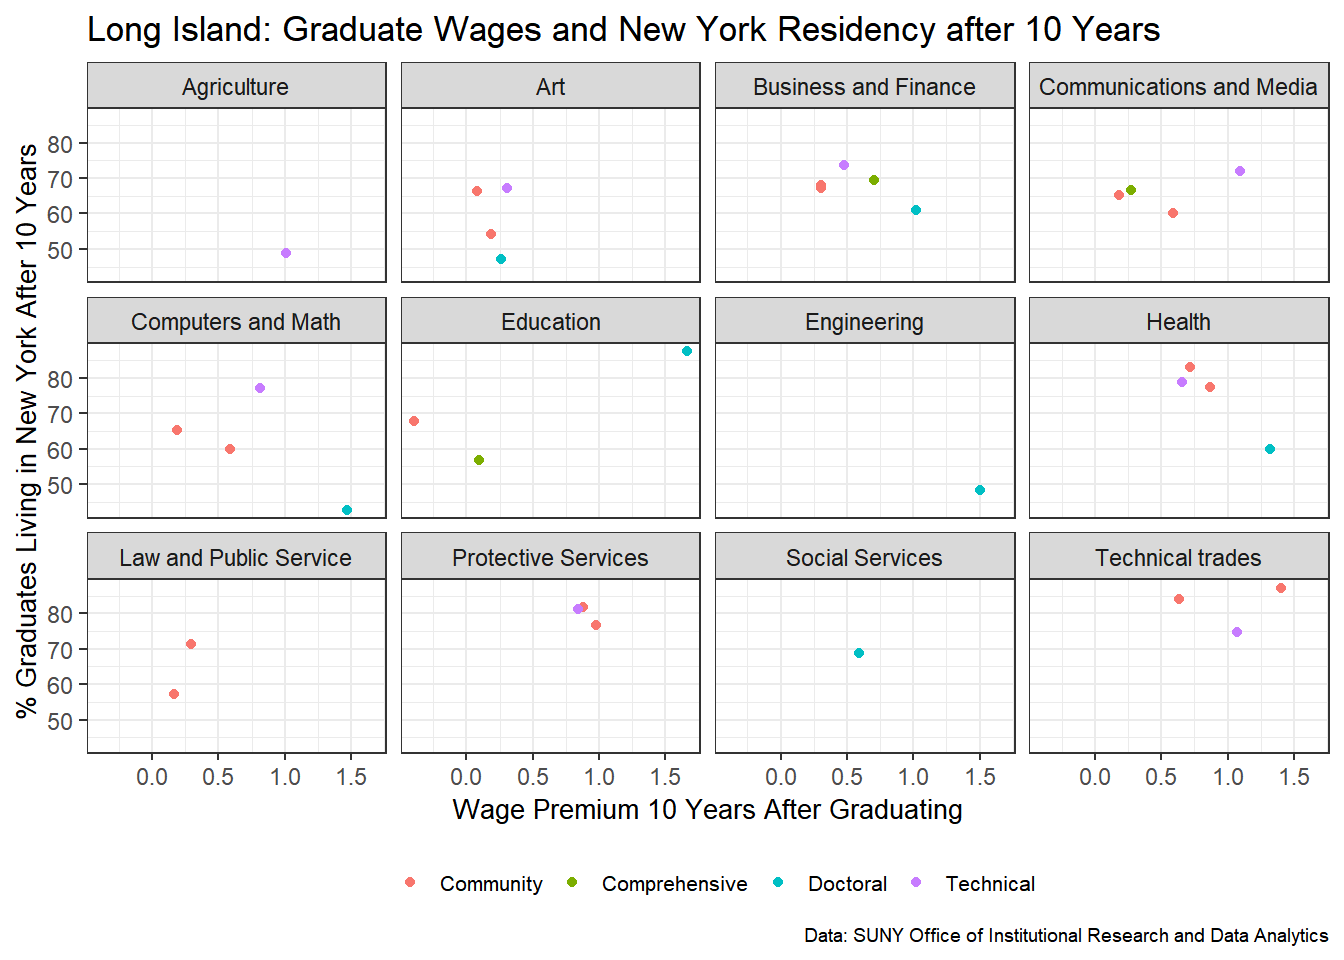
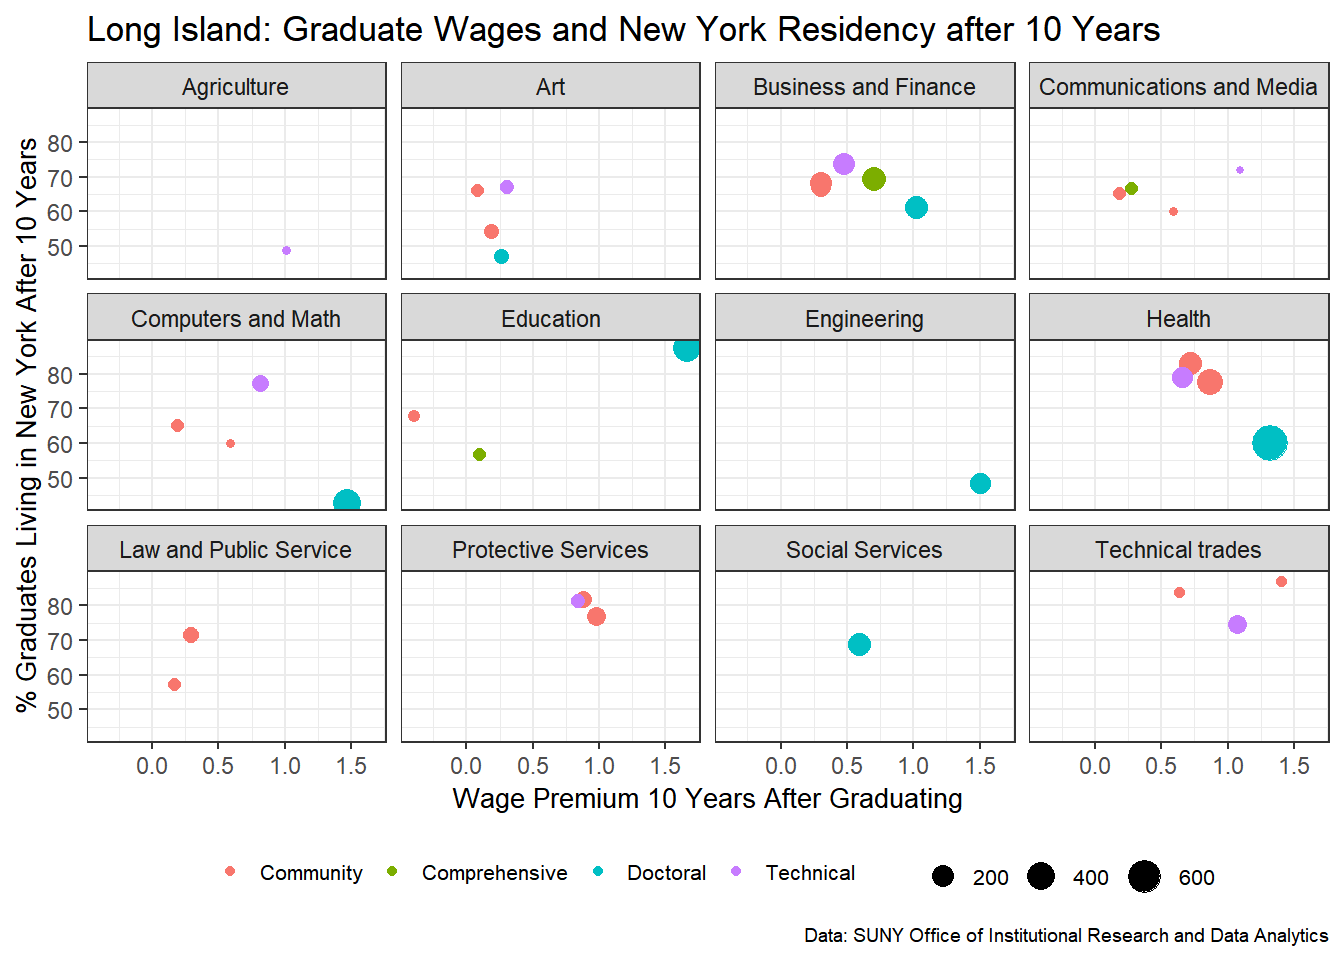
Final Update

diff --git a/docs/index.html b/docs/index.html
@@ -365,15 +365,15 @@ div.tocify {
 </div>
 
 
-<div id="introduction" class="section level2">
-<h2>Introduction</h2>
+<div id="i.-introduction" class="section level2">
+<h2>I. Introduction</h2>
 <p>The State University of New York (SUNY) is one of the largest public higher education systems in the country, with 64 total institutions spread across 10 state regions. These regions are highly varied, and include a megacity, the rural periphery, and several old industrial cities experiencing population loss. The institutions are varied too, and include research universities, comprehensive colleges, community colleges, and technical institutes.</p>
 <p>SUNY’s heterogeneous geographic and institutional structure is designed to facilitate access and cultivate human capital at several degree levels. This is explicit in SUNY’s stated mission: to recognize the “fundamental role of its responsibilities in undergraduate education and [to provide] a full range of graduate and professional education that reflects the opportunity for individual choice and the needs of society” (suny.edu).</p>
-<p>How well does the SUNY system fulfill this mission at the regional and state scales? The following study offers a preliminary assessment of SUNY’s role in attracting, forming, and retaining human capital in different parts of the state. The purpose of this exercise is 1) to identify strengths and weaknesses in the system, and 2) to generate research questions for further inquiry.</p>
+<p>How well does the SUNY system fulfill this mission at the regional and state scales? The following study offers a preliminary assessment of SUNY’s role in attracting, forming, and retaining human capital in different parts of the state. The regional scale is used to capture both the variety of needs across New York, but also because it demonstrates the interrelationships of different SUNY institutions in a given area. The purpose of this exercise is 1) to identify strengths and weaknesses in the system at the regional scale, and 2) to offer some preliminary conclusions and identify areas for further research.</p>
 </div>
-<div id="methods-and-materials" class="section level2">
-<h2>Methods and Materials</h2>
-<p>This project uses data compiled from the Census Tigris package, US Census American Community survey, the Rockefeller Center, and the SUNY gradwages dashboard. To explore the various roles SUNY plays in each region, I use a series of histograms, line, plot, and bar graphs, some with reference lines, to visually convey the different roles the SUNY system plays within each region and within the state.</p>
+<div id="ii.-methods-and-materials" class="section level2">
+<h2>II. Methods and Materials</h2>
+<p>This project uses data compiled from the Census Tigris package, US Census American Community survey, the Rockefeller Institute, and the SUNY gradwages dashboard. I use a series of line, plot, and bar graphs, some with reference lines, to visually convey the different roles the SUNY system plays within each region. A few linear regressions are also run to test for the strength of the relationship between graduate retention and wages earned 10 years after graduating.</p>
 <pre class="r"><code>#load necessary packages
 
 library(readr)
@@ -384,10 +384,6 @@ library(RColorBrewer)
 library(tidycensus)
 library(readr)
 library(knitr)
-library(kableExtra)
-library(latex2exp)
-library(egg)
-library(gridExtra)
 library(lattice)
 library(spData)
 library(sf)
@@ -397,12 +393,11 @@ library(rgdal)
 library(sp)
 library(rgeos)
 library(ggmap)
-library(plotly)
 
 census_api_key(&quot;7912510ff91a51de560cf1e9160860875f062880&quot;)</code></pre>
 </div>
-<div id="part-i.-who-suny-serves" class="section level2">
-<h2>Part I. Who SUNY serves</h2>
+<div id="iii.-who-suny-serves" class="section level2">
+<h2>III. Who SUNY serves</h2>
 <p>SUNY has campuses in every part of the state. Institutions tend to congregate near one another in the state’s largest metropolitan areas: New York City and its environs, the capital region of Albany, Syracuse in Central New York, and Buffalo in Western New York. In each of these areas, comprehensive college and community or technical colleges complement one or more doctoral universities.</p>
 <pre class="r"><code>#load new york counties from tigris
 ny &lt;- counties(&quot;NY&quot;)
@@ -466,11 +461,11 @@ ggplot(origins, aes(x = Region, y = Value,
        )</code></pre>
 <p><img src="index_files/figure-html/students-1.png" width="672" /></p>
 </div>
-<div id="part-ii.-how-important-are-suny-graduates-to-each-regions-workforce" class="section level2">
-<h2>Part II. How important are SUNY graduates to each region’s workforce?</h2>
+<div id="iv.-how-important-are-suny-graduates-to-each-regions-workforce" class="section level2">
+<h2>IV. How important are SUNY graduates to each region’s workforce?</h2>
 <p>The relative importance of SUNY alumni - and regional schools - to sub-state labor markets varies widely. For example, SUNY graduates make up a disproportionate number of total graduates in rural parts of the state like Mohawk Valley and North Country. Graduates of regional SUNY schools make up over 50% of the North Country’s total pool of residents with a degree, but total SUNY alums comprise more than 70% of area graduates.</p>
 <p>Despite making up a smaller share of total graduates in the Capital District, SUNY graduates are about 35% of the total workforce there (which is highly educated on the whole).</p>
-<p>Consistent with Florida’s (2002) “Creative Class” thesis, SUNY graduates in New York City were mostly educated outside of the region, and the city succeeds in “pulling” college graduates into town. The opposite is true of Western New York; of the more than 60% of area graduates that are SUNY alums, about 55% were educated at regional schools. This may be because SUNY has monopolized higher education in the region (though that seems unlikely as there are several other private colleges in and around Buffalo), or because a high proportion of graduates decide to remain in the area after graduation, or because the region struggles to attract college graduates from elsewhere (again, the challenge Florida describes in The Creative Class).</p>
+<p>SUNY graduates in New York City were mostly educated outside of the region, and the city succeeds in “pulling” college graduates into town. The opposite is true of Western New York; 60% of area graduates are SUNY alums, and about 55% were educated at regional schools. This may be because SUNY has monopolized higher education in the region (though that seems unlikely as there are several other private colleges in and around Buffalo), or because a high proportion of graduates decide to remain in the area after graduation, or because the region struggles to attract college graduates from elsewhere.</p>
 <pre class="r"><code>#load grad retention data
 grad_retention &lt;- read_csv(&quot;grad_retention_percent_ttl_grads.csv&quot;)
 
@@ -520,10 +515,10 @@ ggplot(grad_retention, aes(x = Region, y = Value,
        caption = &quot;Data: Rockefeller Center&quot;)</code></pre>
 <p><img src="index_files/figure-html/suny%20alums%20workforce-1.png" width="672" /></p>
 </div>
-<div id="part-iii.-matching-suny-graduates-skills-to-local-labor-markets" class="section level2">
-<h2>Part III. Matching SUNY Graduates’ Skills to Local Labor Markets</h2>
+<div id="v.-matching-suny-graduates-skills-to-local-labor-markets" class="section level2">
+<h2>V. Matching SUNY Graduates’ Skills to Local Labor Markets</h2>
 <p>An important dimension of any public university’s impact is whether the skills of their graduates match demand. Here, I compare degrees held by alums living in the region as a percent of total regional jobs requiring a related degree to SUNY alums as a percent of total regional graduates (the dashed reference line). This data is from the Rockefeller Institute, which compiled graduate major information from the International Postsecondary Education Data System (IPEDS) and job demand estimates from the NY Department of Labor.<br />
-The series of bar plots below depict this skills (mis)match.</p>
+The series of bar plots below depict the skills (mis)match.</p>
 <pre class="r"><code>#load Skills Match Data from CSV file
 skills &lt;- read_csv(&quot;suny_skills_match_by_region.csv&quot;)
 
@@ -553,11 +548,11 @@ ggplot(skills) +
         )+
   ggtitle(&quot;Matching SUNY Graduates&#39; Skills to Area Labor Markets&quot;)</code></pre>
 <p><img src="index_files/figure-html/skillsmatch-1.png" width="672" /></p>
-<p>Overall, there is impressive consistency between SUNY graduates’ skills and regional labor market demand. But there are some notable mismatches. In all cases, there is an oversupply of agriculture and art degrees. The largest and most consistent undersupply is in hospitality. Mohawk Valley, Long Island, and Western New York appear to have the least perfect relationship between skills supplied and skills demanded. Central New York, Southern Tier, New York City, and the Capital District all fare better, though in different ways.</p>
+<p>Overall, there is impressive consistency between SUNY graduates’ skills and regional labor market demand. But there are some notable mismatches. In all cases, there is an oversupply of agriculture and art degrees. The largest and most consistent undersupply is in hospitality. Mohawk Valley, Long Island, and Western New York appear to have the least perfect relationship between skills supplied and skills demanded. North Country, Central New York, Southern Tier, New York City, and the Capital District all fare better, though in different ways.</p>
 </div>
-<div id="part-iv.-investigating-the-skills-gap" class="section level2">
-<h2>Part IV. Investigating the Skills Gap</h2>
-<p>Are these skills gaps primarily caused by broader market trends, such as higher demand for certain kinds of skills outside of the region? Graduate retention and wage rates are a good proxy for the level of market power and degree of specialization alums hold, and help to illuminate whether students may have better job options elsewhere.</p>
+<div id="vi.-investigating-the-skills-gap" class="section level2">
+<h2>VI. Investigating the Skills Gap</h2>
+<p>Are these skills gaps primarily caused by broader market trends, such as higher demand for certain kinds of skills outside of the region? Wage rates are a good proxy for the level of market power and degree of specialization alums hold, and help to illuminate whether students may have better job options elsewhere. Mapping them according to degree level and alongside graduate retention rates helps to reveal a few trends.</p>
 <pre class="r"><code>#load wage data
 wages &lt;- read_csv(&quot;SUNY_locations_enrollment_wages.csv&quot;)
 
@@ -571,8 +566,8 @@ ggplot(wages, aes(x = Wages, y = Residents, col = Level))+
        caption = &quot;Data: SUNY Office of Institutional Research and Data Analytics&quot;)+
   theme(plot.caption = element_text(size = 7))</code></pre>
 <p><img src="index_files/figure-html/institutional%20level%20wages%20and%20retention-1.png" width="672" /></p>
-<p>From the above scatterplot, it does appear as though graduates of Community, Comprehensive, and Technical schools are all more likely to remain in NY state after graduating. They also tend to make less money.</p>
-<p>However, while linear regressions reveal a significant and negative relationship between wages and percent of graduates who remain in New York State after graduating (the higher the grad’s wages, the less likely they are to stay and work in NY), the overall explanatory power of this model is extremely weak (R2 = 0.03).</p>
+<p>From the above scatterplot, it appears as though graduates of Community, Comprehensive, and Technical schools are all more likely to remain in NY state after graduating. They also tend to make less money.</p>
+<p>Linear regressions reveal a significant and negative relationship between wages and percent of graduates who remain in New York State after graduating (the higher the grad’s wages, the less likely they are to stay and work in NY), but, perhaps due to outliers, the overall explanatory power of these models is extremely weak (R2 is less than 0.03).</p>
 <pre class="r"><code>programs &lt;- read_csv(&quot;schools_programs_wages_residency.csv&quot;)
 
 #filter schools that don&#39;t have programs or have fewer than 10 graduates
@@ -582,6 +577,24 @@ programs1 &lt;- programs %&gt;%
 residentwages &lt;- lm(Residents~Wages, data = programs1)
 #print summary
 summary(residentwages)</code></pre>
+<pre><code>## 
+## Call:
+## lm(formula = Residents ~ Wages, data = programs1)
+## 
+## Residuals:
+##     Min      1Q  Median      3Q     Max 
+## -34.884  -5.922   0.477   7.246  26.249 
+## 
+## Coefficients:
+##               Estimate Std. Error t value Pr(&gt;|t|)    
+## (Intercept)  7.281e+01  1.863e+00  39.089  &lt; 2e-16 ***
+## Wages       -1.006e-04  3.042e-05  -3.307  0.00105 ** 
+## ---
+## Signif. codes:  0 &#39;***&#39; 0.001 &#39;**&#39; 0.01 &#39;*&#39; 0.05 &#39;.&#39; 0.1 &#39; &#39; 1
+## 
+## Residual standard error: 10.3 on 324 degrees of freedom
+## Multiple R-squared:  0.03266,    Adjusted R-squared:  0.02967 
+## F-statistic: 10.94 on 1 and 324 DF,  p-value: 0.001048</code></pre>
 <pre class="r"><code>programs &lt;- read_csv(&quot;schools_programs_wages_residency.csv&quot;)
 
 #calculate wage premiums by school and field of study
@@ -595,8 +608,26 @@ residentwagepremium &lt;- lm(Residents~wage_premium2, data = programs_new)
 
 #print summary
 summary(residentwagepremium)</code></pre>
-<p>The results of these regressions suggest the skills gaps depicted above may also be a supply side issue. After all, not all SUNY schools offer degree programs in all fields, or they may be missing one or more degree levels in a given region. To dig into this a bit, I look at field of study, NY state residency, and wage rates in a few regions of interest: Western New York, Mohawk Valley, and Long Island.</p>
-<p>In Western New York, SUNY is undersupplying graduates in business and finance, computers and math, and hospitality. One issue appears to be weak retention rates for graduates of the University at Buffalo (the only doctoral university in the area) in computers and math. And no SUNY school in the area offers degrees in hospitality.</p>
+<pre><code>## 
+## Call:
+## lm(formula = Residents ~ wage_premium2, data = programs_new)
+## 
+## Residuals:
+##     Min      1Q  Median      3Q     Max 
+## -35.877  -5.875   0.560   7.307  23.067 
+## 
+## Coefficients:
+##               Estimate Std. Error t value Pr(&gt;|t|)    
+## (Intercept)     69.375      1.032  67.240  &lt; 2e-16 ***
+## wage_premium2   -2.974      1.049  -2.834  0.00488 ** 
+## ---
+## Signif. codes:  0 &#39;***&#39; 0.001 &#39;**&#39; 0.01 &#39;*&#39; 0.05 &#39;.&#39; 0.1 &#39; &#39; 1
+## 
+## Residual standard error: 10.34 on 324 degrees of freedom
+## Multiple R-squared:  0.02419,    Adjusted R-squared:  0.02118 
+## F-statistic: 8.032 on 1 and 324 DF,  p-value: 0.004883</code></pre>
+<p>Though the skills gap is at least partially a retention issue, it may also be a supply side issue. After all, not all SUNY schools offer degree programs in all fields, their program size may be small, or they may be missing one or more degree levels in a given region. To dig into both retention and degree programs offered, I look at field of study, NY state residency, and wage rates in a few regions of interest (which I selected based on the skills gap visualization above): Western New York, Mohawk Valley, and Long Island. Color is mapped onto type of institution, and size is mapped onto cohort numbers 10 years after graduation. Cohort size is intended to stand in for program size.</p>
+<p>In Western New York, SUNY is undersupplying graduates in business and finance, computers and math, and hospitality. One issue appears to be small cohort size and weak retention rates for graduates of the University at Buffalo (the only doctoral university in the area) in computers and math. And no SUNY school in the area offers a degree in hospitality.</p>
 <pre class="r"><code>programs &lt;- read_csv(&quot;schools_programs_wages_residency.csv&quot;)</code></pre>
 <pre><code>## Warning: Missing column names filled in: &#39;X9&#39; [9], &#39;X10&#39; [10]</code></pre>
 <pre class="r"><code>#calculate average wages by program of study in each region
@@ -605,13 +636,13 @@ programs2 &lt;- programs_new %&gt;%
 filter(Region == &quot;Western New York&quot;)
   
 #organize graphics
-ggplot(programs2, aes(x = wage_premium2, y = Residents, col = Level))+
+ggplot(programs2, aes(x = wage_premium2, y = Residents, col = Level, size = Sample))+
   geom_point()+
   scale_fill_brewer(palette = &quot;Paired&quot;)+
   theme_bw()+
   theme(legend.key.size = unit(0.4, &quot;cm&quot;))+
   ggtitle(&quot;Western New York: Graduate Wages and New York Residency after 10 Years&quot;)+
-  labs(x = &quot;Wage Premium 10 Years After Graduating&quot;, y = &quot;% Graduates Living in New York After 10 Years&quot;)+
+  labs(x = &quot;Wage Premium* 10 Years After Graduating&quot;, y = &quot;% Graduates Living in New York After 10 Years&quot;)+
    theme_bw()+
   facet_wrap(~Program)+
   theme(legend.position = &quot;bottom&quot;, 
@@ -633,7 +664,7 @@ programs3 &lt;- programs_new %&gt;%
 filter(Region == &quot;Mohawk Valley&quot;)
   
 #organize graphics
-ggplot(programs3, aes(x = wage_premium2, y = Residents, col = Level))+
+ggplot(programs3, aes(x = wage_premium2, y = Residents, col = Level, size = Sample))+
   geom_point()+
   scale_fill_brewer(palette = &quot;Paired&quot;)+
   theme_bw()+
@@ -653,7 +684,7 @@ ggplot(programs3, aes(x = wage_premium2, y = Residents, col = Level))+
         axis.title.y = element_text(size = 10)
         )</code></pre>
 <p><img src="index_files/figure-html/Case%20Study%20Mohawk%20Valley%20Mohawk%20Valley-1.png" width="672" /></p>
-<p>Long Island also presents skills gaps in business and finance, computers and math, education, health, hospitality, and technical trades. Its doctoral institution, Stony Brook, is well known for its economics, math and computer science programs, and graduates may make more money elsewhere.</p>
+<p>Long Island also presents skills gaps in business and finance, computers and math, education, health, hospitality, and technical trades. Its doctoral institution, Stony Brook, is well known for its math and computer science programs, and its many graduates may make more money outside of the state. Education graduates tend to stay in the region and make about 1.5x the region’s median wage. No SUNY schools in the area offer degrees in hospitality. While retention rates and wages are quite high for technical trades, cohort sizes are small.</p>
 <pre class="r"><code>programs &lt;- read_csv(&quot;schools_programs_wages_residency.csv&quot;)</code></pre>
 <pre><code>## Warning: Missing column names filled in: &#39;X9&#39; [9], &#39;X10&#39; [10]</code></pre>
 <pre class="r"><code>#calculate average wages by program of study in each region
@@ -662,7 +693,7 @@ programs4 &lt;- programs_new %&gt;%
 filter(Region == &quot;Long Island&quot;)
   
 #organize graphics
-ggplot(programs4, aes(x = wage_premium2, y = Residents, col = Level))+
+ggplot(programs4, aes(x = wage_premium2, y = Residents, col = Level, size = Sample))+
   geom_point()+
   scale_fill_brewer(palette = &quot;Paired&quot;)+
   theme_bw()+
@@ -683,9 +714,9 @@ ggplot(programs4, aes(x = wage_premium2, y = Residents, col = Level))+
         )</code></pre>
 <p><img src="index_files/figure-html/Case%20Study%20Program%20Wages%20Capital-1.png" width="672" /></p>
 </div>
-<div id="conclusions-and-additional-research-questions" class="section level2">
-<h2>Conclusions and Additional Research Questions</h2>
-<p>In many ways, the SUNY state system is a model for human capital formation. Over the last 15 years, New York State’s median educational attainment and have consistently exceeded national rates. SUNY, which grants approximately 30% of postgraduate degrees in New York, may be largely to thank for this trend.</p>
+<div id="vii.-conclusions-and-additional-research-questions" class="section level2">
+<h2>VII. Conclusions and Additional Research Questions</h2>
+<p>In many ways, the SUNY state system is a model for human capital formation. About 1.5 million SUNY alums live in New York, and the state’s median educational attainment and median income have consistently exceeded national rates.</p>
 <pre class="r"><code>regional_ed &lt;- read_csv(&quot;suny_regional_education_tidy.csv&quot;)
 
 #isolate NY and USA
@@ -722,8 +753,47 @@ plot + geom_line(data = NY,
        caption = &quot;___ New York; -- US&quot;
          )</code></pre>
 <p><img src="index_files/figure-html/NY%20educational%20attainment-1.png" width="672" /></p>
-<p>Yet there is significant variation between regions, and SUNY’s role in helping to attract, form, and redistribute human capital also varies widely across the state. While the system has a relatively small effect on New York City, it plays a fundamental role in the economy of rural (Mohawk Valley, North Country) and post-industrial areas (Western and Central New York).</p>
-<p>While this study generated a few preliminary answers to the questions raised throughout, more work is needed to understand the relationship between specific SUNY institutions and regional labor markets. A more precise measure of skills supplied/skills demanded is in order, something I intend to continue to refine (thanks to some great ideas from my GEO 511 classmates!) in the coming weeks and months.</p>
+<pre class="r"><code>#load income data from .csv file
+regional_income &lt;- read_csv(&quot;suny_regional_income_data_tidy.csv&quot;)
+
+#isolate NY and USA
+
+NY &lt;- regional_income %&gt;%
+  filter(Region == &quot;NY State&quot;)
+
+USA &lt;- regional_income%&gt;%
+  filter(Region == &quot;USA&quot;)
+
+regional_income1 &lt;- regional_income %&gt;%
+  filter(Region != &quot;NY State&quot;) %&gt;%
+  filter(Region != &quot;USA&quot;)
+
+#build line graphs by year, with NY and USA as reference lines
+
+base_plot &lt;- ggplot(data = regional_income1, 
+                    aes(x = Year, y = Income, col = Region))+
+  geom_line()
+
+#add NY State and USA as reference lines
+
+base_plot +
+  geom_line(data = NY, 
+            aes(x = Year, y = Income), 
+            col= &quot;Black&quot;, size = 1)+
+  scale_color_brewer(palette = &quot;Paired&quot;)+
+  geom_line(data = USA, 
+            aes(x = Year, y = Income), 
+            col = &quot;Black&quot;, linetype=&quot;dashed&quot;, size = 1)+
+  theme_bw()+
+  theme(panel.grid.major = element_blank())+
+  labs(x = &quot;Year&quot;, 
+       y = &quot;Median Income&quot;, 
+       title = &quot;Median Incomes in New York State&quot;,
+       caption = &quot;__ US; --- NY&quot;
+  )</code></pre>
+<p><img src="index_files/figure-html/income-1.png" width="672" /></p>
+<p>Yet there is significant variation between regions, and SUNY’s role in helping to attract, form, and redistribute human capital also varies widely across the state. While the system has a relatively small effect on New York City, it plays a more central role in rural (Mohawk Valley, North Country) and post-industrial areas (Western and Central New York). These regions have low median incomes and educational attainment rates relative to both the state and the country. It also appears that these regions struggle to attract non-SUNY college graduates. Without access to SUNY schools, it is likely that these areas would be even further behind.</p>
+<p>However, because of the outsize role SUNY plays in places like Mohawk Valley and Western New York, the interface between degrees conferred and local labor markets is even more critically important than in more economically. This study takes a first step towards understanding some of the drivers behind the relationship between skills supplied and regional labor demand. Earnings after graduation by degree type help to explain some of the mismatch. Available programs and cohort size also matter.</p>
 </div>
 
 <!-- give the footer some space -->
